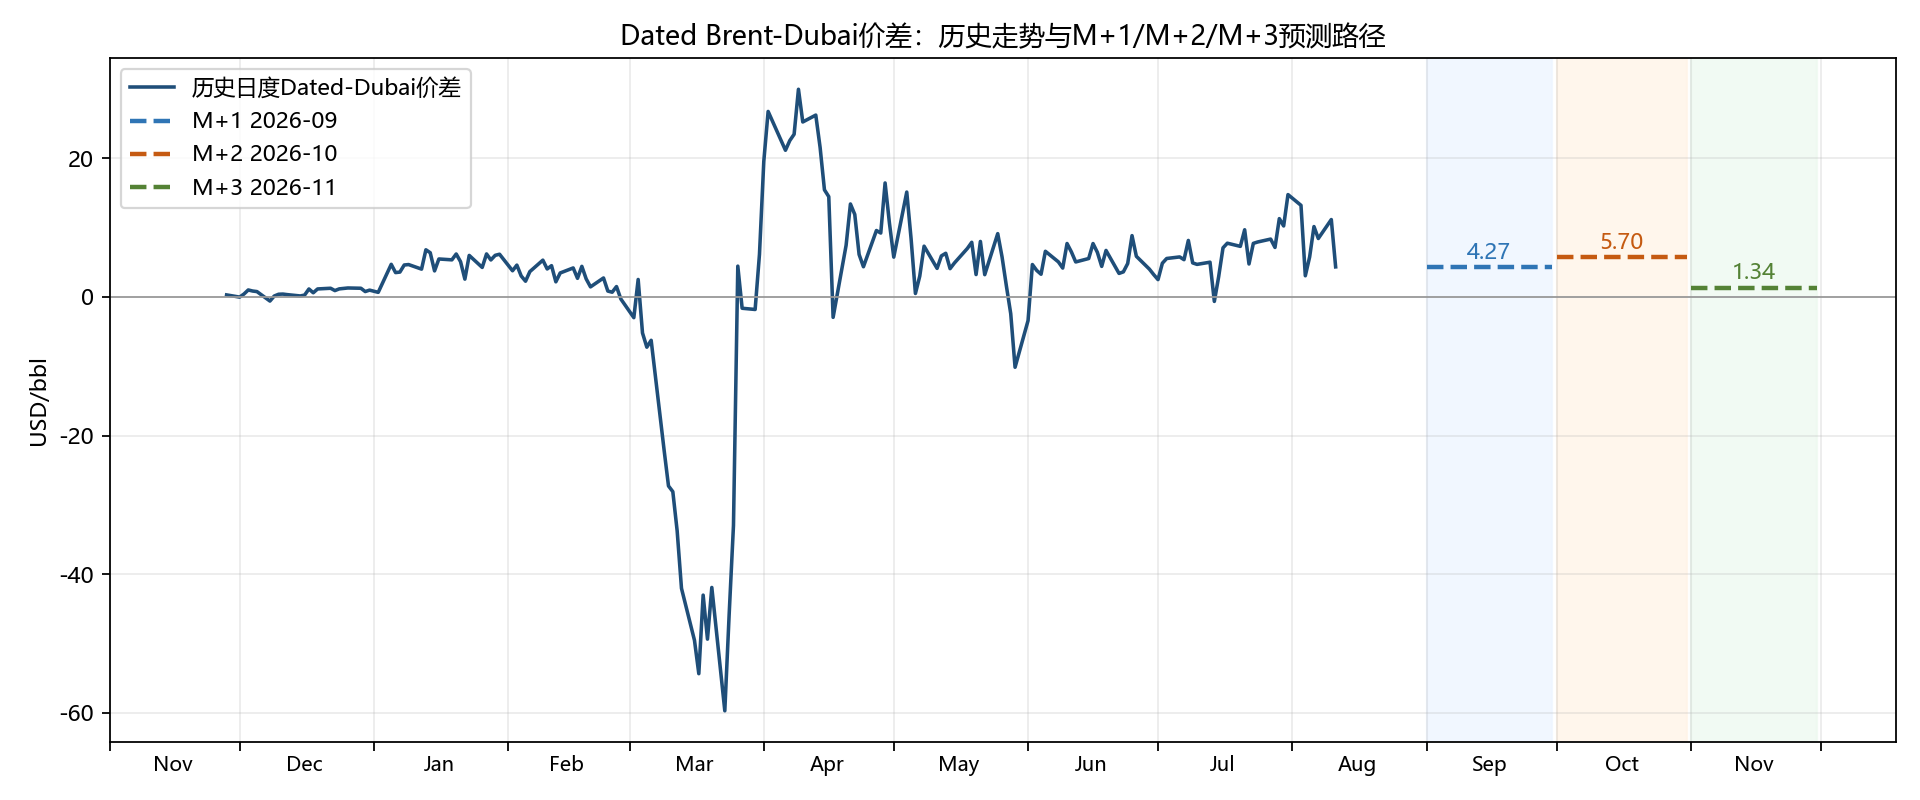
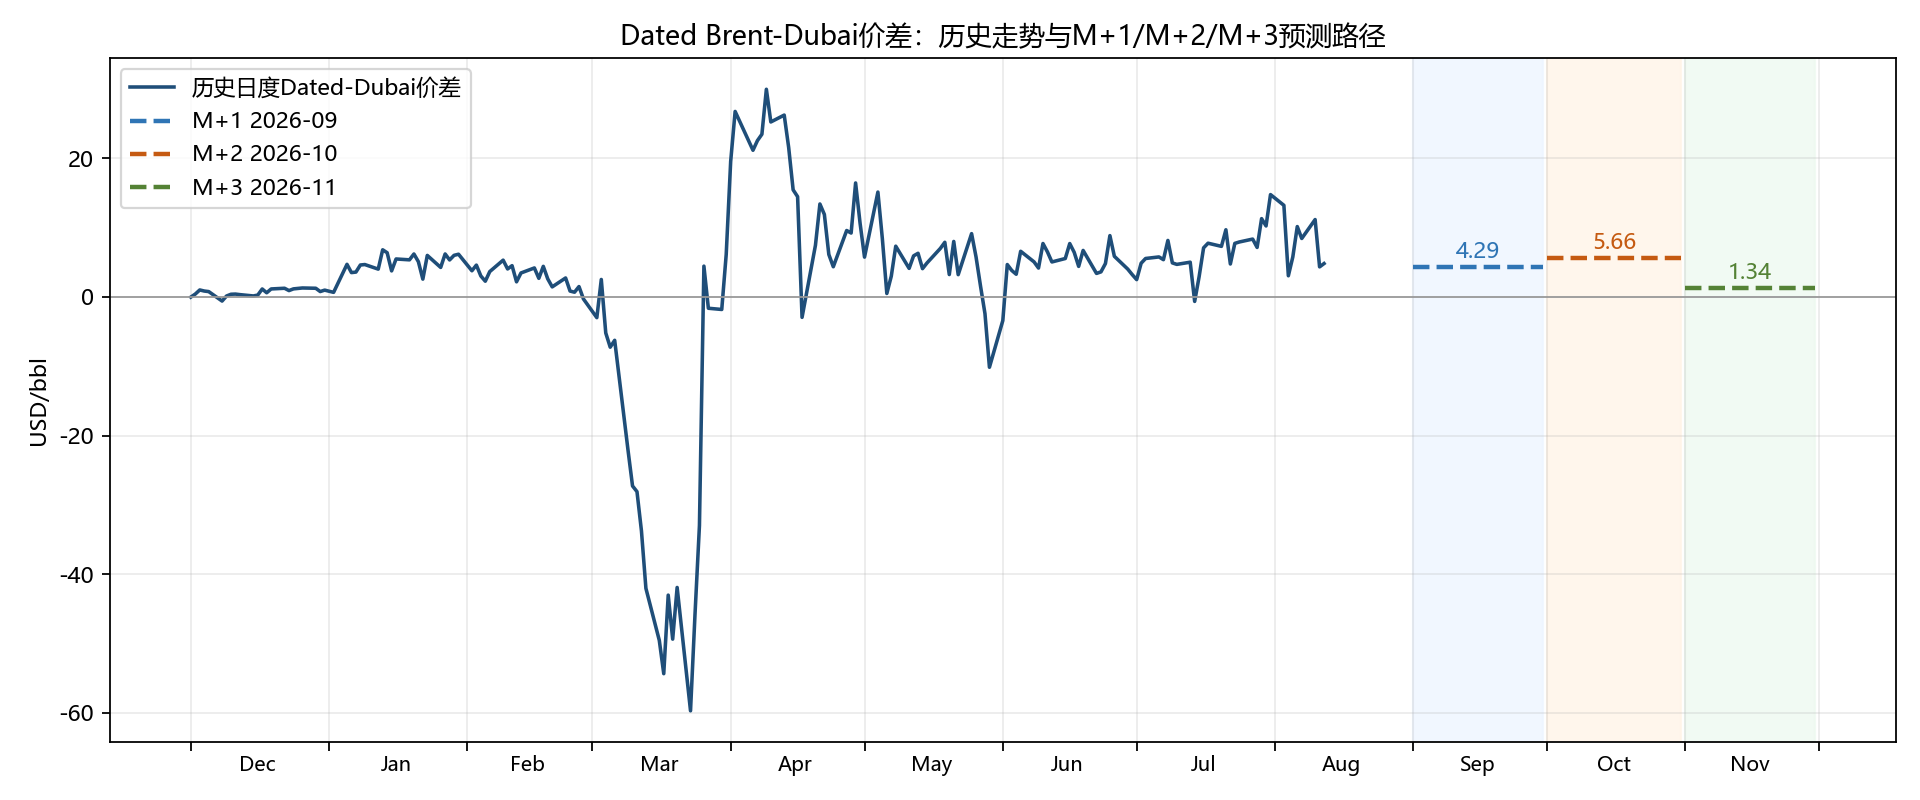
Update BD report 2026-08-13 10:30

diff --git a/index.html b/index.html
@@ -20,7 +20,7 @@ img{max-width:100%;border:1px solid #ddd}.note{color:#555}
 </head><body>
 <h1>Dated-Dubai价差中期预测模型报告</h1>
 <h2>1. 核心结论</h2>
-<div class='grid'><div class='kpi'>数据日期<b>2026-08-11</b></div><div class='kpi'>Dated Brent<b>93.330</b></div><div class='kpi'>Dubai<b>88.990</b></div><div class='kpi'>Dated-Dubai价差<b>4.340</b></div></div>
+<div class='grid'><div class='kpi'>数据日期<b>2026-08-12</b></div><div class='kpi'>Dated Brent<b>93.560</b></div><div class='kpi'>Dubai<b>88.740</b></div><div class='kpi'>Dated-Dubai价差<b>4.820</b></div></div>
 <table class="dataframe data-table">
   <thead>
     <tr style="text-align: right;">
@@ -39,8 +39,8 @@ img{max-width:100%;border:1px solid #ddd}.note{color:#555}
     <tr>
       <td>2026-09</td>
       <td>M+1</td>
-      <td>4.2736</td>
-      <td>-0.0664</td>
+      <td>4.2856</td>
+      <td>-0.5344</td>
       <td>下降</td>
       <td>ExtraTrees</td>
       <td>core</td>
@@ -50,8 +50,8 @@ img{max-width:100%;border:1px solid #ddd}.note{color:#555}
     <tr>
       <td>2026-10</td>
       <td>M+2</td>
-      <td>5.6960</td>
-      <td>1.3560</td>
+      <td>5.6586</td>
+      <td>0.8386</td>
       <td>上升</td>
       <td>ExtraTrees</td>
       <td>enhanced</td>
@@ -62,7 +62,7 @@ img{max-width:100%;border:1px solid #ddd}.note{color:#555}
       <td>2026-11</td>
       <td>M+3</td>
       <td>1.3408</td>
-      <td>-2.9992</td>
+      <td>-3.4792</td>
       <td>下降</td>
       <td>ExtraTrees</td>
       <td>enhanced</td>
@@ -72,10 +72,10 @@ img{max-width:100%;border:1px solid #ddd}.note{color:#555}
   </tbody>
 </table>
 <p>方向准确率为历史滚动回测结果。</p>
-<p>最新Dated-Dubai价差为 4.340 USD/bbl；未来预测方向为：M+1 2026-09 下降、M+2 2026-10 上升、M+3 2026-11 下降。</p>
+<p>最新Dated-Dubai价差为 4.820 USD/bbl；未来预测方向为：M+1 2026-09 下降、M+2 2026-10 上升、M+3 2026-11 下降。</p>
 <p>当前三个预测月份中，M+1 使用 ExtraTrees + core，M+2 使用 ExtraTrees + enhanced，M+3 使用 ExtraTrees + enhanced。</p>
 <h2>2. 价差走势与中期预测</h2>
-<img src='bd_m1_m3_monthly_forecast_chart.png?v=20260812103508' alt='M1-M3月均预测图'>
+<img src='bd_m1_m3_monthly_forecast_chart.png?v=20260813103004' alt='M1-M3月均预测图'>
 <p class='note'>实线为最近历史日度Dated-Dubai价差；水平虚线分别表示M+1/M+2/M+3完整自然月平均Dated-Dubai价差预测。价差上升表示Dated Brent相对Dubai走强；价差下降表示Dubai相对Dated Brent走强。</p>
 <h2>3. 回测表现摘要</h2>
 <table class="dataframe data-table">

diff --git a/README_PUBLISH.md b/README_PUBLISH.md
@@ -1,5 +1,5 @@
 # BD GitHub Pages publish package
-Generated at: 2026-08-12 10:35:08
+Generated at: 2026-08-13 10:30:04
 
 Files:
 - index.html: formal report entry
